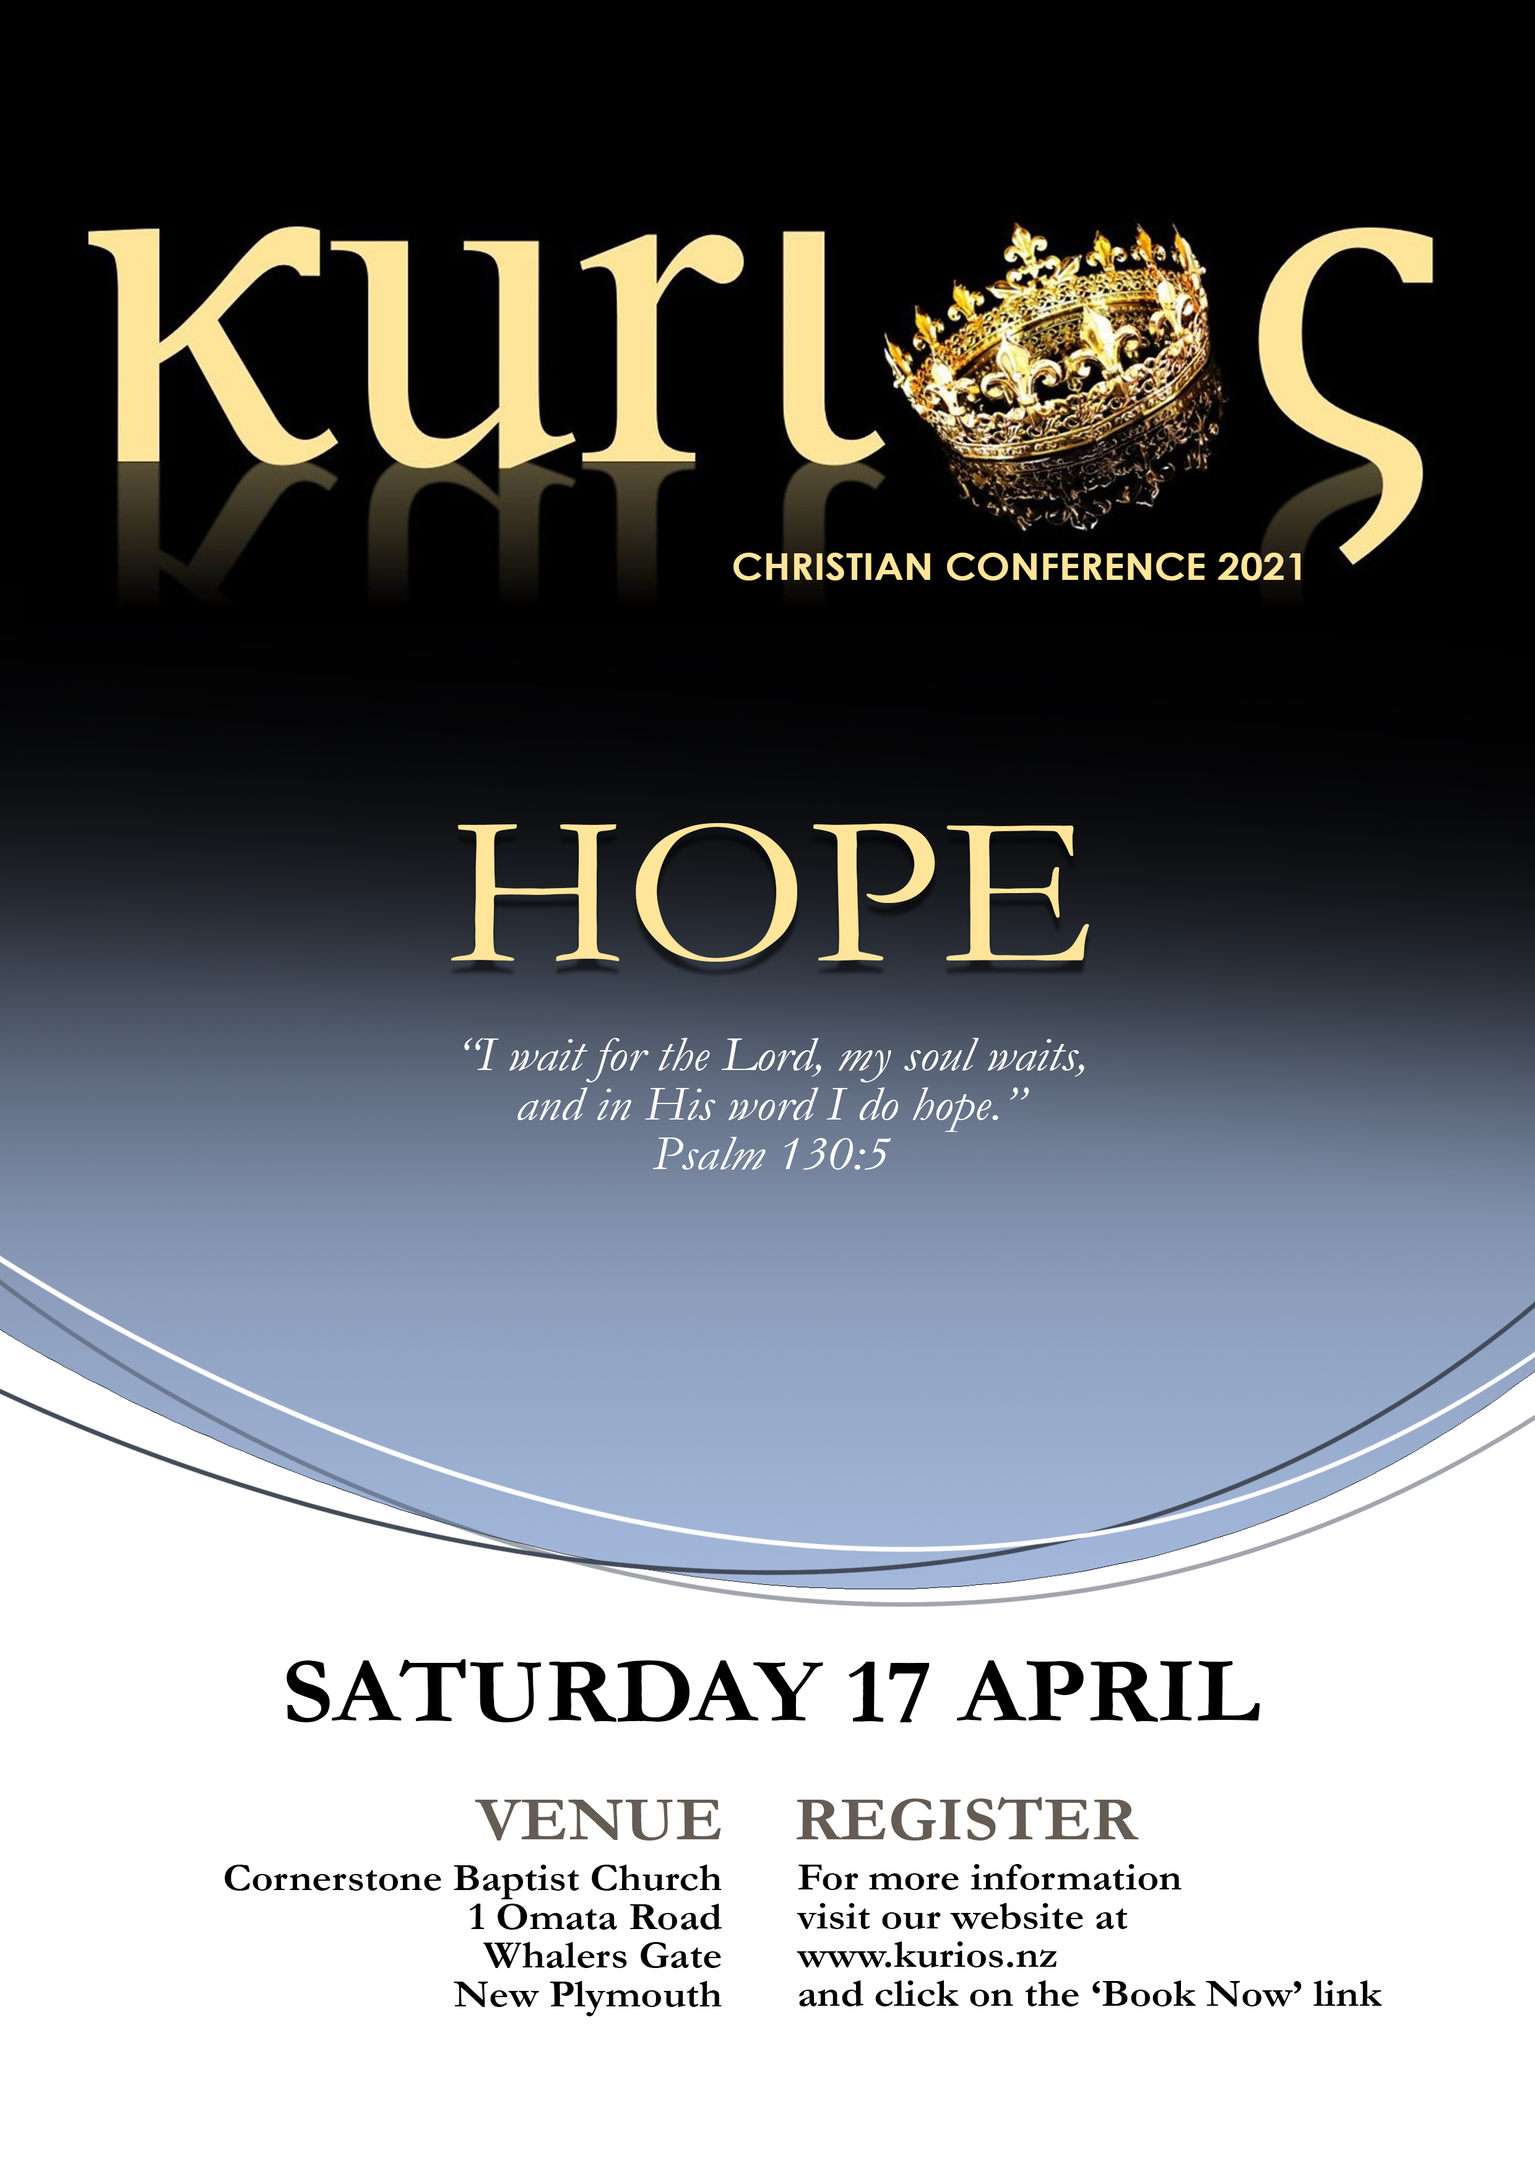
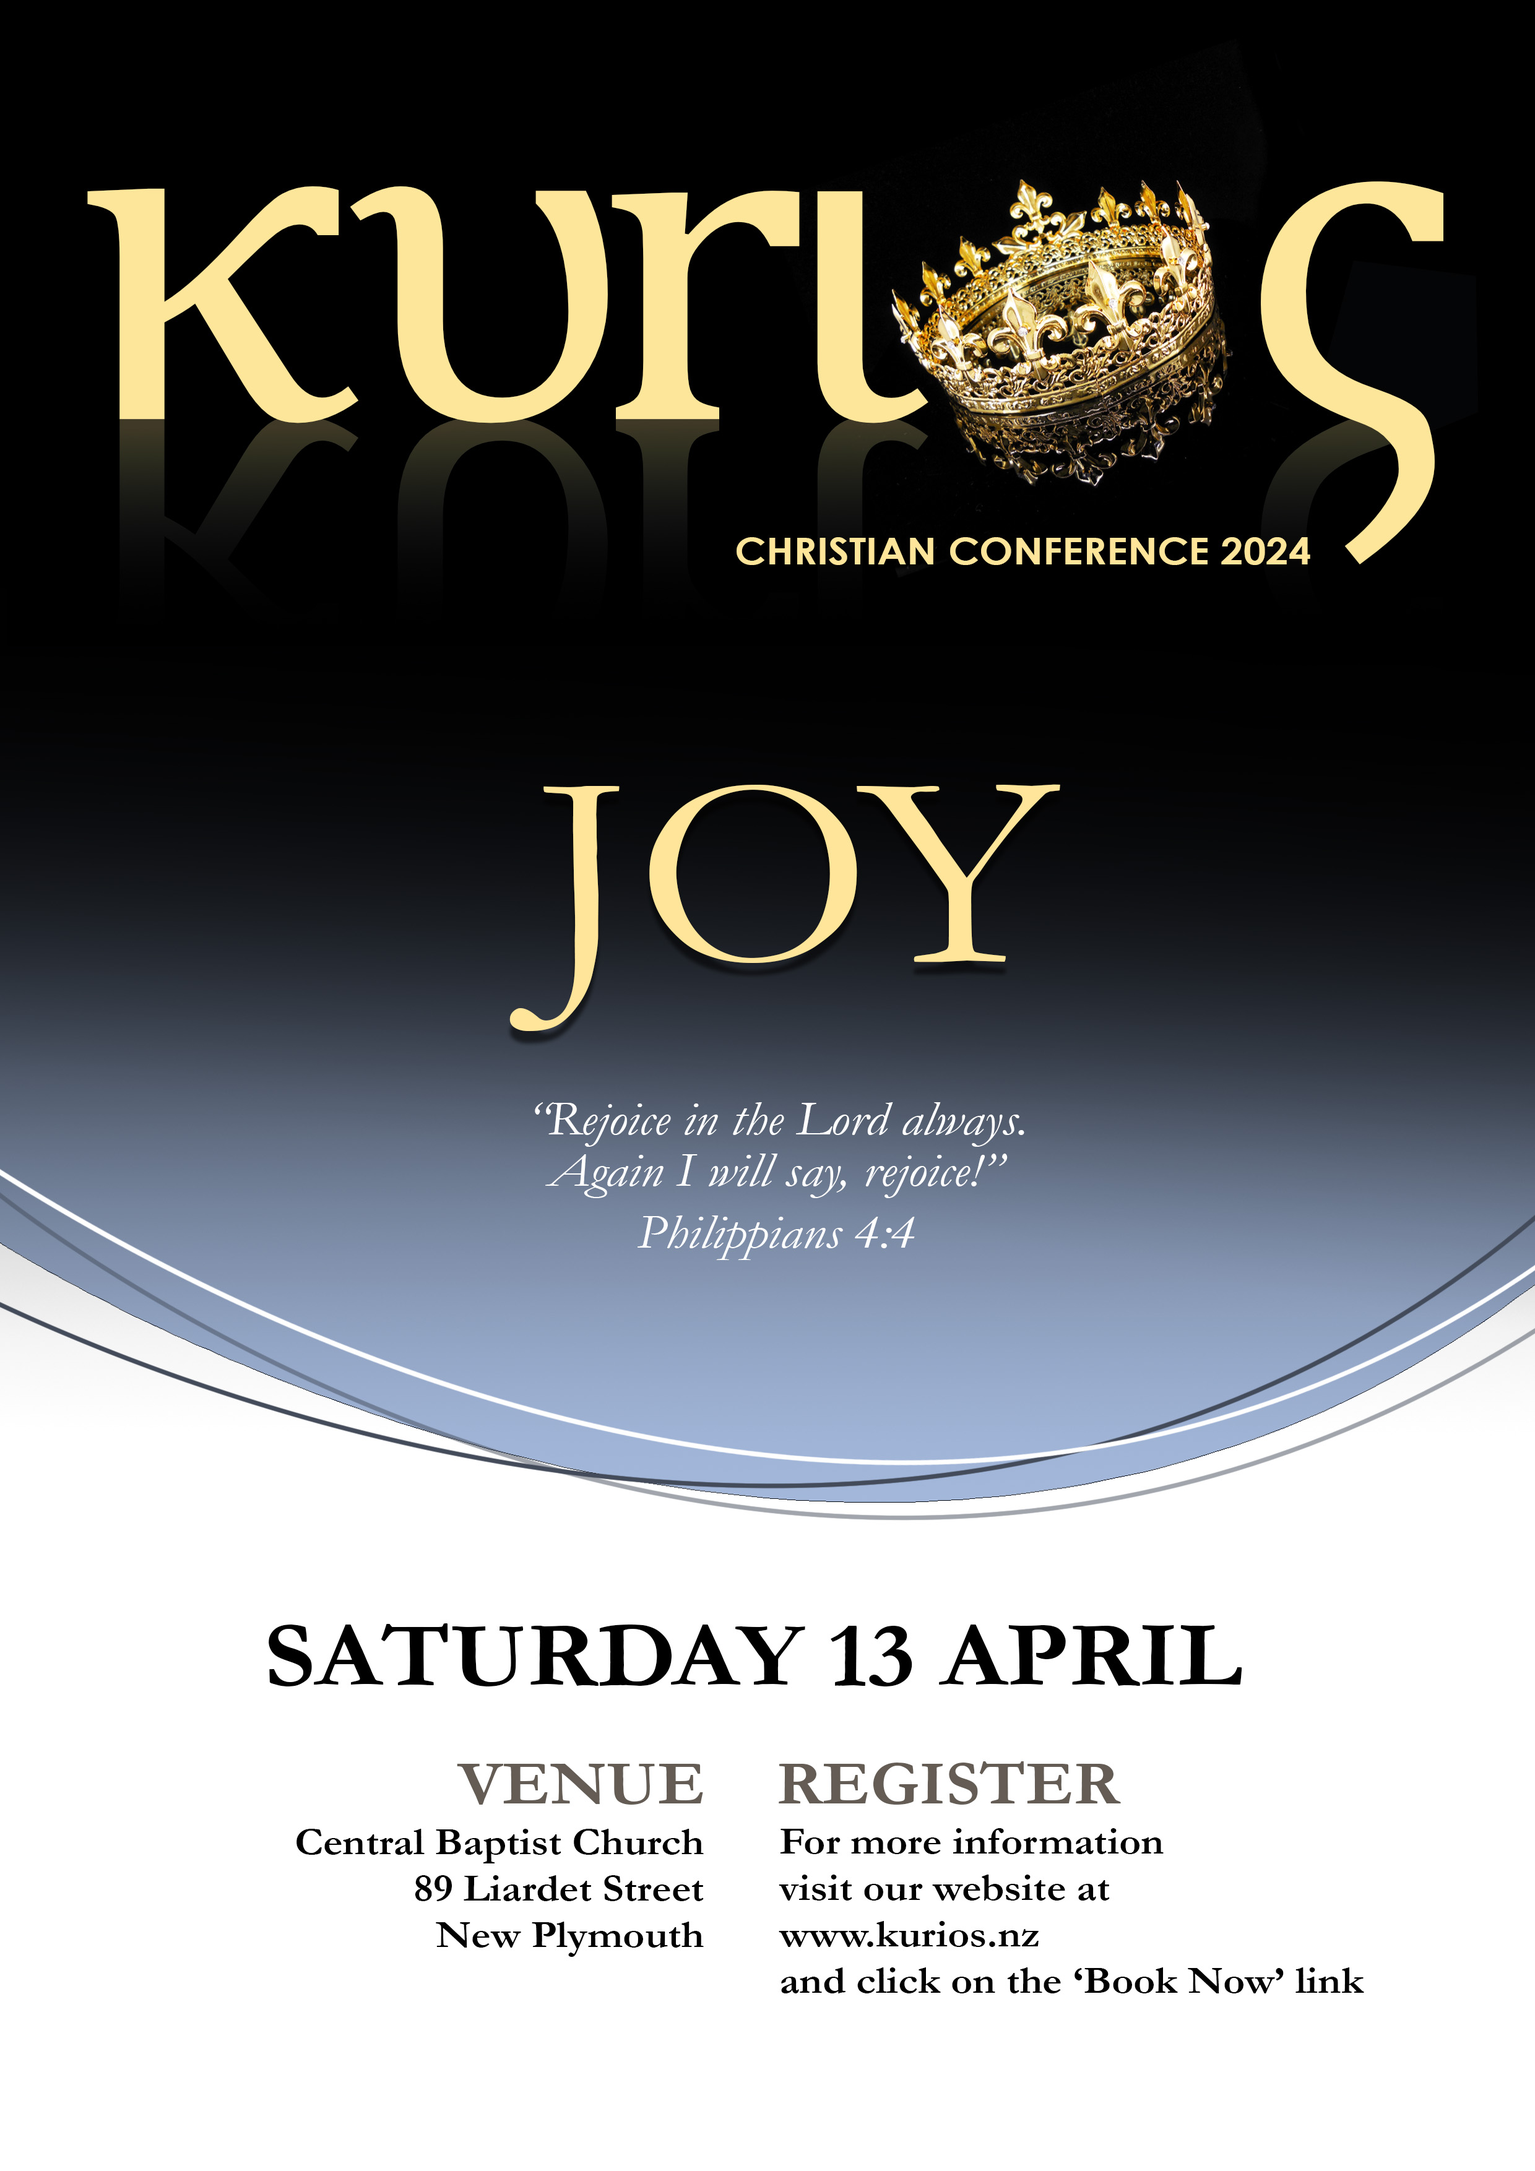
Added 2024 conference info

Changed region(s): [[0.0, 0.3418, 1.0, 0.9322], [0.0621, 0.0621, 0.9625, 0.2796]]

diff --git a/index.html b/index.html
@@ -28,8 +28,8 @@
 							<div class="inner">
 								<h1 class="replace">Kurios</h1>
 								<p>An Annual Christian Conference</p>
-								<h2><strong>Love</strong></h2>
-								<h2>29 April 2023</h2>
+								<h2><strong>Joy</strong></h2>
+								<h2>13 April 2024</h2>
 								<h3>New Plymouth</h3>
 							</div>
 						</div>
@@ -39,7 +39,7 @@
 								<li><a href="#talks">Talks</a></li>
 								<li><a href="#schedule">Schedule</a></li>
 								<li><a href="#more-info">More&nbsp;Info</a></li>
-								<li><a href="https://www.eventbrite.co.nz/e/kurios-christian-conference-tickets-522206021267" target="_blank"><strong>Register&nbsp;Now</strong></a></li>
+								<li><a href="https://www.eventbrite.co.nz/e/kurios-christian-conference-2024-joy-tickets-746924500287" target="_blank"><strong>Register&nbsp;Now</strong></a></li>
 							</ul>
 						</nav>
 					</header>
@@ -50,11 +50,11 @@
 						<!-- Speaker -->
 							<article id="speaker">
 								<h2 class="major">Speaker</h2>
-								<h3>Pieter van Huyssteen</h3>
-								<span class="image left"><img src="images/pieter.jpg" alt="Pieter van Huyssteen" /></span>
-								<p>Since the age of 53, Pieter van Huyssteen has been serving as Minister of the Word and Sacraments &mdash; first in the Reformed Church of Foxton (7 years), and then in the Reformed Church of Wainuiomata (for the past 9 years).</p>
-								<p>Before he entered the ministry, Dr Pieter van Huyssteen spent a lifetime lecturing and teaching a variety of subjects at various universities and Bible colleges in South Africa and in New Zealand. Some of these courses were: Classical and New Testament Greek; six Semitic languages of which the most important ones are: Biblical Hebrew and Biblical Aramaic; Church History, Old &amp; New Testament Exegesis; and Old &amp; New Testament Survey, as well as International Phonetics to prospective missionaries.</p>
-								<p>As minister and pastor, Pieter is passionate about teaching the whole Bible on God&rsquo;s terms and for His glory to old and young, as well as comforting those in hardship with words from the holy Scriptures. God has blessed Pieter and Annette with 44 years of blessed marriage, and with three children and four grandchildren.</p>
+								<h3>Logan Hagoort</h3>
+								<span class="image left"><img src="images/logan.jpg" alt="Logan Hagoort" /></span>
+								<p>Logan Hagoort, the Minister at Covenant Presbyterian Church in Manurewa, has been a serving in the Grace Presbyterian Church for seven years. He is married to Josella and they have the joy of raising four children while living a little south of Auckland on a life style block.</p>
+								<p>Logan has done a variety of different things in his life, from dairy farming to managing a jewellery store and even selling vacuum cleaners door to door! In 2010, he felt called to give it all up and pursue pastoral ministry. He studied at Laidlaw College in Auckland and graduated with a bachelor and post-graduate diploma in theology. Currently, on top of being a Minister he also teaches Biblical Greek at Grace Theological College in Auckland and is the chairman of a Christian education trust.</p>
+								<p>As a minister, Logan is passionate about living to glorify God by enjoying him forever through dependence upon Him, devotion to Him, and delight in Him.</p>
 							</article>
 
 						<!-- Talks -->
@@ -62,16 +62,10 @@
 								<h2 class="major">Talks</h2>
 								<span class="image main"><img src="images/pic04.jpg" alt="" /></span>
 								<p>
-									<strong>Talk 1: &ldquo;In Awe of His Great Love&rdquo; (Philippians 2:5-8):</strong> Many people struggle these days to find love, and struggle to understand what it even means to be loved. What is so significant about the Christian faith that God expresses his great love for us? What is the fitting response to such a great love?
+									We live in a society where we desire and strive for joy, and yet we find it strangely elusive. For all our technological prowess and modern marvels, we don&rsquo;t tend to &lsquo;get there&rsquo; much. And when we do, joy tends to last for such a short time—either because the moment passes, or because we get quickly bored. In a way, we live in a world now that is hyper-stimulated and used to getting what they want at the touch of a button… and yet they are more depressed than ever before. Ecclesiastes illustrates this well.
 								</p>
 								<p>
-									<strong>Talk 2: &ldquo;Living in Agreement with My Profession&rdquo; (Romans 6:1-14):</strong> It is well understood that love is not just a feeling but an action. God displays his love for us in countless ways. What does our love look like to him then? If we profess to love Him, how will people see that love expressed in our lives?
-								</p>
-								<p>
-									<strong>Talk 3: &ldquo;How do I know He loves me?&rdquo; (2 Peter 1:3-11):</strong> Despite all that the Scriptures tell us about the love of God, many Christians struggle with assurance of their salvation. Even David cried out many times in the Psalms from a downcast soul. What do we do when we feel God is absent?
-								</p>
-								<p>
-									<strong>Talk 4: &ldquo;God&rsquo;s Loved Ones Will Persevere&rdquo; (Philippians 2:12-18):</strong> Not only is love productive, but it causes us to reflect the nature and work of our God. We are to be lights to a world in the midst of a terrible darkness… a world unfamiliar with true love. And even when doing this causes terrible pain, we always have reason to rejoice in the God of our salvation.
+									Why is Christianity any different? What does Jesus provide that these earthly things don&rsquo;t?
 								</p>
 							</article>
 
@@ -93,7 +87,7 @@
 												</tr>
 												<tr>
 													<td>9:40 am</td>
-													<td>Talk 1: &ldquo;<a href="#talks">In Awe of His Great Love</a>&rdquo;</td>
+													<td>Talk 1</td>
 												</tr>
 												<tr>
 													<td>10:30 am</td>
@@ -101,7 +95,7 @@
 												</tr>
 												<tr>
 													<td>11:00 am</td>
-													<td>Talk 2: &ldquo;<a href="#talks">Living in Agreement with My Profession</a>&rdquo;</td>
+													<td>Talk 2</td>
 												</tr>
 												<tr>
 													<td>12:00 pm</td>
@@ -109,7 +103,7 @@
 												</tr>
 												<tr>
 													<td>1:00 pm</td>
-													<td>Talk 3: &ldquo;<a href="#talks">How do I know He loves me?</a>&rdquo;</td>
+													<td>Talk 3</td>
 												</tr>
 												<tr>
 													<td>1:50 pm</td>
@@ -117,7 +111,7 @@
 												</tr>
 												<tr>
 													<td>2:20 pm</td>
-													<td>Talk 4: &ldquo;<a href="#talks">God&rsquo;s Loved Ones Will Persevere</a>&rdquo;</td>
+													<td>Talk 4</td>
 												</tr>
 												<tr>
 													<td>3:00 pm</td>
@@ -163,21 +157,62 @@
 							<article id="more-info">
 								<h2 class="major">More Information</h2>
 								<span class="image main"><img src="images/pic01.jpg" alt="" /></span>
+
+								<h3>What is the Kurios Conference?</h3>
+								<p>This conference gets its name from the Greek word &lsquo;κυριος&rsquo; which means Lord. It is the name that was given to Christ &ldquo;so that at the name of Jesus every knee should bow, in heaven and on earth and under the earth, and every tongue confess that Jesus Christ is Lord, to the glory of God the Father.&rsquo; (Philippians 2:10-11)</p>
+								<p style="margin:0">It is our intent each year to study topics which relate directly to the Lordship of Christ Jesus; to answer two primary questions:</p>
+								<ol>
+								<li>Who is our Lord and God?</li>
+								<li>How should we live as citizens of His kingdom?</li>
+								</ol>
+								<p>We invite you to join us for the annual Kurios Conference. It&rsquo;s our desire that, united as Christians, we can fix our eyes on our Lord and Savior Jesus Christ.
+								This conference is offered free of charge and includes lunch and refreshments.</p>
 								<p style="margin:0">For more information, please refer to the following resources:</p>
 								<ul>
 									<li><a href="#location">Conference Location Map</a></li>
 									<li><a href="#donations">Donation Information</a></li>
-									<!--<li><a href="uploads/brochure.pdf" target="_blank">2023 Conference Brochure</a></li>
-									<li><a href="uploads/poster.jpg" target="_blank">2023 Poster</a></li>-->
+									<!--<li><a href="uploads/brochure.pdf" target="_blank">2023 Conference Brochure</a></li>-->
+									<li><a href="uploads/poster.jpg" target="_blank">Poster</a></li>
 									<li><a class="image" href="https://www.facebook.com/KuriosConference/" target="_blank"><img src="images/fb-logo.png" alt="Facebook" title="Like us on Facebook" /></a>  See up to date news and information relating to the conference</li>
 								</ul>
-								<p style="margin:0">&nbsp;</p>
 								<p style="margin:0">For information on previous years conferences click on the links below: </p>
 								<ul>
+									<li><a href="#2023">2023 - Love (Pieter van Huyssteen)</a></li>
 									<li><a href="#2021">2021 - Hope (Michael Flinn)</a></li>
 									<li><a href="#2019">2019 - Transforming Truth (Dr Phillip Scheepers)</a></li>
 									<li><a href="#2018">2018 - Worship (Andrew Young)</a></li>
 								</ul>
+								<h3>Further enquiries</h3>
+								<p>If you have any other questions you can contact us at:<br>
+									<strong>Phone:</strong> <a href="tel:+64223098293">(022) 309 8293</a><br>
+									<strong>Email:</strong> <a href="mailto:enquiries@kurios.nz">enquiries@kurios.nz</a>
+								</p>
+							</article>
+
+						<!-- 2023 - Love -->
+							<article id="2023">
+								<h2 class="major">2023 : Love</h2>
+								<span class="image left"><img src="images/pieter.jpg" alt="Pieter van Huyssteen" /></span>
+								<p>Since the age of 53, Pieter van Huyssteen has been serving as Minister of the Word and Sacraments &mdash; first in the Reformed Church of Foxton (7 years), and then in the Reformed Church of Wainuiomata (for the past 9 years).</p>
+								<p>Before he entered the ministry, Dr Pieter van Huyssteen spent a lifetime lecturing and teaching a variety of subjects at various universities and Bible colleges in South Africa and in New Zealand. Some of these courses were: Classical and New Testament Greek; six Semitic languages of which the most important ones are: Biblical Hebrew and Biblical Aramaic; Church History, Old &amp; New Testament Exegesis; and Old &amp; New Testament Survey, as well as International Phonetics to prospective missionaries.</p>
+								<p>As minister and pastor, Pieter is passionate about teaching the whole Bible on God&rsquo;s terms and for His glory to old and young, as well as comforting those in hardship with words from the holy Scriptures. God has blessed Pieter and Annette with 44 years of blessed marriage, and with three children and four grandchildren.</p>
+								<h2 class="major">Talks</h2>
+								<p>
+									<strong>Talk 1: &ldquo;In Awe of His Great Love&rdquo; (Philippians 2:5-8):</strong> Many people struggle these days to find love, and struggle to understand what it even means to be loved. What is so significant about the Christian faith that God expresses his great love for us? What is the fitting response to such a great love?<br>
+									<span class="fa fa-youtube-play"></span> <a href="https://www.youtube.com/watch?v=rzzK7iKX8lk" target="_blank">Session 1 Video</a>
+								</p>
+								<p>
+									<strong>Talk 2: &ldquo;Living in Agreement with My Profession&rdquo; (Romans 6:1-14):</strong> It is well understood that love is not just a feeling but an action. God displays his love for us in countless ways. What does our love look like to him then? If we profess to love Him, how will people see that love expressed in our lives?<br>
+									<span class="fa fa-youtube-play"></span> <a href="https://www.youtube.com/watch?v=KwOAkYnsbhk" target="_blank">Session 2 Video</a>
+								</p>
+								<p>
+									<strong>Talk 3: &ldquo;How do I know He loves me?&rdquo; (2 Peter 1:3-11):</strong> Despite all that the Scriptures tell us about the love of God, many Christians struggle with assurance of their salvation. Even David cried out many times in the Psalms from a downcast soul. What do we do when we feel God is absent?<br>
+									<span class="fa fa-youtube-play"></span> <a href="https://www.youtube.com/watch?v=XVw4-CWam4k" target="_blank">Session 3 Video</a>
+								</p>
+								<p>
+									<strong>Talk 4: &ldquo;God&rsquo;s Loved Ones Will Persevere&rdquo; (Philippians 2:12-18):</strong> Not only is love productive, but it causes us to reflect the nature and work of our God. We are to be lights to a world in the midst of a terrible darkness… a world unfamiliar with true love. And even when doing this causes terrible pain, we always have reason to rejoice in the God of our salvation.<br>
+									<span class="fa fa-youtube-play"></span> <a href="https://www.youtube.com/watch?v=lkYd-FCA5Bg" target="_blank">Session 4 Video</a>
+								</p>
 							</article>
 
 						<!-- 2021 - Hope -->
@@ -189,7 +224,7 @@
 								<p>Michael is excited to speak to us about “Hope”. This is a powerful and appropriate topic for us as a society, especially in the past couple of years. Although international statistics that say suicide rates are dropping, studies this past year indicate rising rates of suicide even among high-school students. Is there a solution to such a devastating problem? Dr Flinn will show us that hope is not empty—but when directed at a champion who is trustworthy, good, and powerful to save, we can find freedom and peace for our souls.</p>
 								<h3>Talks</h3>
 								<p>
-									<strong>What is Hope?:</strong> We live in a society that is well acquainted with hopelessness—but less familiar with hope. Part of the dilemma we’ve faced is that we have placed our hope in all the wrong heroes. Why is hope in God different?<br>
+									<strong>What is Hope?:</strong> We live in a society that is well acquainted with hopelessness—but less familiar with hope. Part of the dilemma we&rsquo;ve faced is that we have placed our hope in all the wrong heroes. Why is hope in God different?<br>
 									<span class="fa fa-youtube-play"></span> <a href="https://www.youtube.com/watch?v=qoc3A9JAijQ" target="_blank">Session 1 Video</a>
 								</p>
 								<p>
